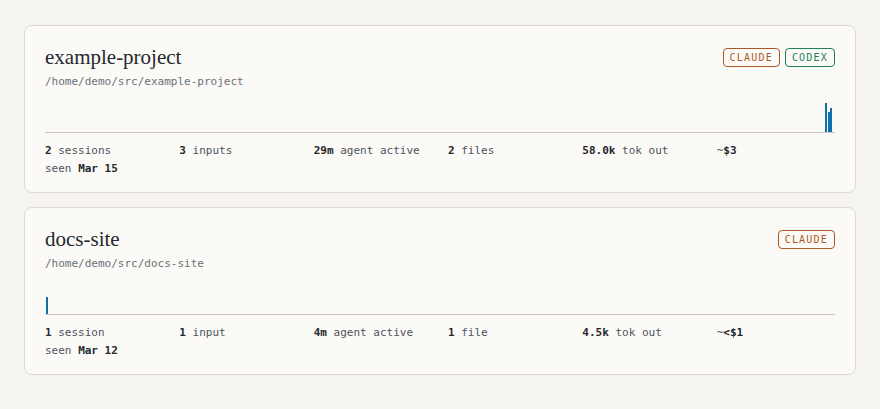
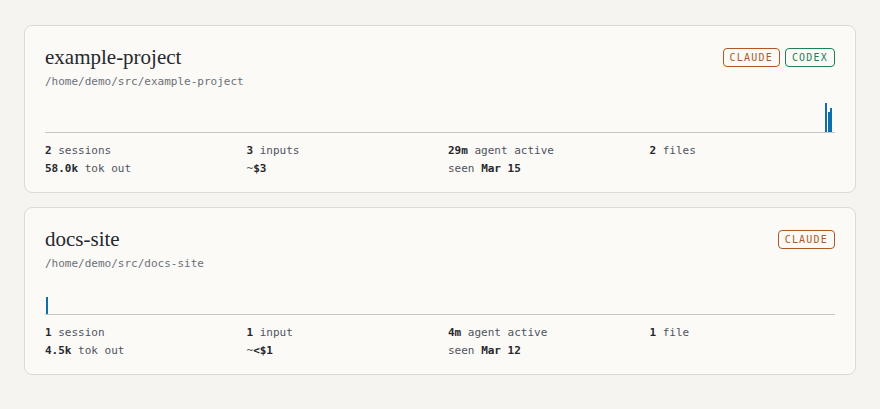
Set prose to a reading measure, center the cost panel, and align the column
The page ended text at five different right edges and let prose run to
the width of whatever box held it. Measured with Palatino Linotype and
Cascadia Code, the faces the font stacks pick on Windows, response
excerpts ran about 110 characters a line and the cost panel's prose
about 118, against about 70 for prompts.

Prose now stops at a reading measure: 62ch of the serif, about 70
characters, for prompts and response excerpts, and 80ch of the mono for
the cost panel's prose, the chart's help line, and gists. The tokens are
--measure and --measure-mono.

The cost panel's body is one 648px block, centered in the column: the
prose, the three tables, and their captions. 648px is the 832px column
less the log's 92px gutter on each side, so at full width the body
starts at the same x as the entries' text. Category columns narrow from
90px to 88px to fit.

A readout card runs to the column's right edge, where the day and
session rules end, instead of stopping at 660px.

The project page's column sits where the index page's does. The 56px
padding that keeps it clear of the minimap rail had moved it 28px left;
it now shifts back right wherever the viewport has room.

On the index, the axis dates sit over the ends of the activity strips,
and a stat cell's track fits "1311h 20m agent active", which used to run
into the next cell.

Assisted-by: Claude Code

diff --git a/generate_site.py b/generate_site.py
@@ -488,7 +488,7 @@ def _rate(x):
 
 
 _GRID_CLOSE = "</tbody></table></div>"
-_GRID_MODEL_COL, _GRID_COL = 120, 90   # px; a seven-column matrix is 660px wide
+_GRID_MODEL_COL, _GRID_COL = 120, 88   # px; a seven-column matrix is 648px, the panel body's width
 
 
 def _grid_open(headers):
@@ -1281,6 +1281,10 @@ CSS = """
   --claude:#d98a5c; --codex:#57b08a;
   --mono:ui-monospace,"Cascadia Code","SF Mono",Menlo,Consolas,"DejaVu Sans Mono",monospace;
   --serif:"Iowan Old Style","Palatino Linotype",Palatino,"Book Antiqua",Georgia,"Times New Roman",serif;
+  /* reading measures: a prose line stops at about 70 characters of the serif (62ch;
+     its average letter is narrower than its zero) or 80 of the mono, however wide
+     the box around it */
+  --measure:62ch; --measure-mono:80ch;
   color-scheme:dark;
 }
 @media (prefers-color-scheme:light){
@@ -1370,6 +1374,9 @@ button{font:inherit;color:inherit}
   border-top:1.5px solid var(--ink);border-bottom:1.5px solid var(--ink)}
 body{padding-right:0}
 body.has-right-rail{padding-right:56px}
+/* the padding keeps the column clear of the rail; where there is room, shift the
+   column back right by half of it, so it sits where the index page's column does */
+body.has-right-rail .wrap{position:relative;left:clamp(0px,calc((100% - 880px) / 2),28px)}
 @media (max-width:759px){.minimap{display:none}body.has-right-rail{padding-right:0}}
 .sessnav{display:flex;align-items:center;gap:8px;flex:0 0 auto;
   letter-spacing:.1em;text-transform:uppercase}
@@ -1536,7 +1543,7 @@ summary.sess .share{vertical-align:middle;margin:-4px 0 -4px 2px}
 .clock{position:absolute;left:0;top:3px;width:52px;text-align:right;
   font-size:11px;color:var(--faint);text-decoration:none}
 a.clock:hover,a.clock:focus-visible{color:var(--human);outline:none}
-.ask{font-family:var(--serif);font-size:16.5px;line-height:1.55;max-width:62ch;
+.ask{font-family:var(--serif);font-size:16.5px;line-height:1.55;max-width:var(--measure);
   white-space:pre-wrap;overflow-wrap:anywhere}
 .terminal{font-family:var(--mono);font-size:13px;line-height:1.45;max-width:100%;
   white-space:nowrap;overflow-x:auto;color:var(--dim)}
@@ -1556,7 +1563,7 @@ a.clock:hover,a.clock:focus-visible{color:var(--human);outline:none}
   border-radius:50%}
 
 /* machine readout */
-.ro{margin-top:12px;max-width:660px;background:var(--panel);border:1px solid var(--line);
+.ro{margin-top:12px;background:var(--panel);border:1px solid var(--line);
   border-radius:8px;padding:10px 14px 11px;font-size:12px;color:var(--dim)}
 .rostat{display:flex;flex-wrap:wrap;gap:4px 16px}
 .rostat b{color:var(--ink);font-weight:600}
@@ -1582,8 +1589,9 @@ details.more>summary:focus-visible{outline:2px solid var(--machine);outline-offs
 .response-item+.response-item{margin-top:9px}
 .response-meta{margin-bottom:3px;font-size:11px;
   letter-spacing:.02em;color:var(--faint)}
-.response-text{font-family:var(--serif);font-size:13px;line-height:1.45;color:var(--dim)}
-.gist{margin:10px 0;padding-left:12px;border-left:2px solid var(--bar);
+.response-text{max-width:var(--measure);font-family:var(--serif);font-size:13px;line-height:1.45;
+  color:var(--dim)}
+.gist{max-width:var(--measure-mono);margin:10px 0;padding-left:12px;border-left:2px solid var(--bar);
   font-size:12px;color:var(--dim);white-space:pre-wrap}
 .files{margin-top:10px}
 .files .detail-heading{margin-bottom:5px}
@@ -1606,9 +1614,12 @@ footer{border-top:1px solid var(--line);margin-top:20px;padding:22px 0 70px;
 .pricing[open]>summary{color:var(--ink)}
 .pricing>summary:hover{color:var(--ink)}
 .pricing>summary:focus-visible{outline:2px solid var(--machine);outline-offset:2px}
-/* the prose takes the column's width like the lines above it; the tables below
-   keep their own widths */
-.pricing-body{margin:14px 0 0;text-align:left;color:var(--dim);font-size:12px;line-height:1.55}
+/* the body is one block as wide as its tables, centered in the column. That width is
+   the 832px column less the log's 92px gutter on each side, so at full width the
+   body lines up with the timeline's entries. Its prose keeps to the reading measure. */
+.pricing-body{max-width:648px;margin:14px auto 0;text-align:left;color:var(--dim);
+  font-size:12px;line-height:1.55}
+.pricing-body>p,.pricing-body>ul{max-width:var(--measure-mono)}
 .pricing-body p{margin:0 0 9px}
 .pricing-body ul.category-help{margin:0 0 9px;padding-left:18px}
 .pricing-body li{padding-left:2px}
@@ -1624,7 +1635,7 @@ footer{border-top:1px solid var(--line);margin-top:20px;padding:22px 0 70px;
    sits at the same x in each; each table's width is set inline to its columns'
    sum, which is what lets fixed layout apply (the rate table has no total column) */
 .pricing table.grid{table-layout:fixed}
-.pricing table.grid col{width:90px}
+.pricing table.grid col{width:88px}
 .pricing table.grid col.cm{width:120px}
 .pricing td.mdl{color:var(--machine)}
 .pricing td.mdl.fam-claude{color:var(--claude)}
@@ -1729,7 +1740,7 @@ select.uwin:focus-visible{outline:2px solid var(--machine);outline-offset:-1px}
 .brush .grip.r{right:-4px}
 .uminiaxis{display:flex;justify-content:space-between;margin:4px 0 0 var(--ugut);
   font-size:10px;line-height:16px;color:var(--faint)}
-.uhelp{margin:8px 0 0;font-size:11px;line-height:16px;color:var(--faint)}
+.uhelp{max-width:var(--measure-mono);margin:8px 0 0;font-size:11px;line-height:16px;color:var(--faint)}
 
 @media (max-width:640px){
   /* the readout's lines get two lines each, at a fixed height so the frame stays
@@ -2943,8 +2954,9 @@ def short_path(p, tl):
 # The index shares the project-page CSS wholesale (same tokens, hero, footer);
 # these rules only add the project shelf. Unused log selectors cost nothing.
 INDEX_CSS = """
+/* inset by a card's border and padding, so the dates sit over the strips' ends */
 .axislbl{display:flex;justify-content:space-between;font-size:10px;color:var(--faint);
-  margin:30px 0 8px}
+  margin:30px 0 8px;padding:0 21px}
 .shelf{display:grid;gap:14px;padding-bottom:10px}
 a.proj{display:block;padding:16px 20px 14px;border:1px solid var(--line);border-radius:8px;
   background:var(--panel);text-decoration:none;transition:border-color .12s}
@@ -2955,8 +2967,9 @@ a.proj:hover,a.proj:focus-visible{border-color:var(--machine);outline:none}
 .ppath{font-size:11px;color:var(--faint);margin-top:1px;word-break:break-all}
 .strip{position:relative;height:30px;margin-top:12px;border-bottom:1px solid var(--spine)}
 .strip i{position:absolute;bottom:0;width:2px;transform:translateX(-50%);background:var(--bar)}
-/* stat cells share one template across every card so columns line up to scan */
-.pstats{display:grid;grid-template-columns:repeat(auto-fit,minmax(104px,1fr));
+/* stat cells share one template across every card so columns line up to scan; a
+   track fits the longest cell, such as "1311h 20m agent active" (22 characters) */
+.pstats{display:grid;grid-template-columns:repeat(auto-fit,minmax(22ch,1fr));
   gap:2px 16px;font-size:11px;color:var(--dim);margin-top:10px}
 .pstats span{white-space:nowrap}
 .pstats b{font-weight:600;color:var(--ink);font-variant-numeric:tabular-nums}

diff --git a/tests/test_accounting.py b/tests/test_accounting.py
@@ -226,12 +226,13 @@ class AccountingTests(unittest.TestCase):
     def test_panel_tables_share_one_column_grid(self):
         # Every table sets its width to its columns' sum, so fixed layout
         # applies and a category column is the same width in each: a
-        # seven-column matrix is 120 + 6 * 90 = 660px, the six-column rates
-        # table 570px.
+        # seven-column matrix is 120 + 6 * 88 = 648px, the width of the
+        # panel body (the 832px column less the log's 92px gutter on each
+        # side), and the six-column rates table is 560px.
         seven = generate_site._grid_open(["model", "a", "b", "c", "d", "e", "total"])
         six = generate_site._grid_open(["model", "a", "b", "c", "d", "e"])
-        self.assertIn('<table class="grid" style="width:660px">', seven)
-        self.assertIn('<table class="grid" style="width:570px">', six)
+        self.assertIn('<table class="grid" style="width:648px">', seven)
+        self.assertIn('<table class="grid" style="width:560px">', six)
 
     def test_unknown_models_are_visible_and_make_estimate_partial(self):
         by_model = {
